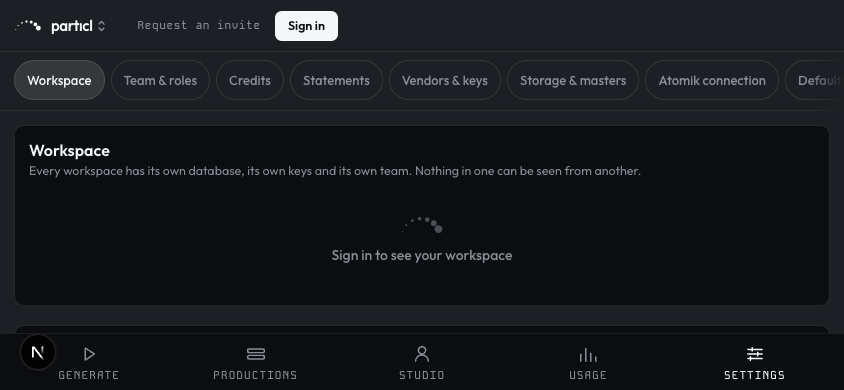
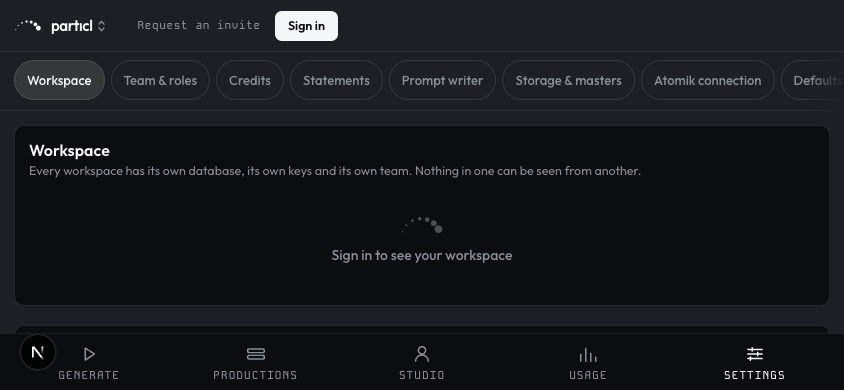
The Workspace card stops mentioning keys too
The acceptance screenshot caught what the section removal missed. The card
above it still read "Every workspace has its own database, its own keys
and its own team" — the one place in Settings still saying a workspace has
keys at all, and the isolation claim it is making does not need them: the
database and the team carry it.

The admin console keeps its equivalent line. That page refuses anybody who
is not the platform owner, and the person administering every workspace on
the deployment is the one reader for whom key routing is their own business
rather than a disclosure.

The regenerated 844x390 shot is the section change: the index now reads
Prompt writer where it read Vendors & keys.

Changed region(s): [[0.7701, 0.1846, 0.9858, 0.2154], [0.6161, 0.1846, 0.7393, 0.2462], [0.4621, 0.1846, 0.5853, 0.2154]]

diff --git a/app/(app)/settings/page.tsx b/app/(app)/settings/page.tsx
@@ -136,7 +136,7 @@ export default function SettingsPage() {
         <div className="flex min-w-0 flex-col gap-5">
           {/* ── Workspace ── */}
           <section id="workspace" className="scard">
-            <div className="scard-h"><span>Workspace</span><span>Every workspace has its own database, its own keys and its own team. Nothing in one can be seen from another.</span></div>
+            <div className="scard-h"><span>Workspace</span><span>Every workspace has its own database and its own team. Nothing in one can be seen from another.</span></div>
             {!signedIn ? <Empty compact title="Sign in to see your workspace" /> : (
               <div className="grid grid-cols-2 gap-x-6 gap-y-2.5 max-[900px]:grid-cols-1">
                 <div className="srow"><span>This workspace</span><span className="font-medium">{workspace?.name ?? "—"}</span></div>
